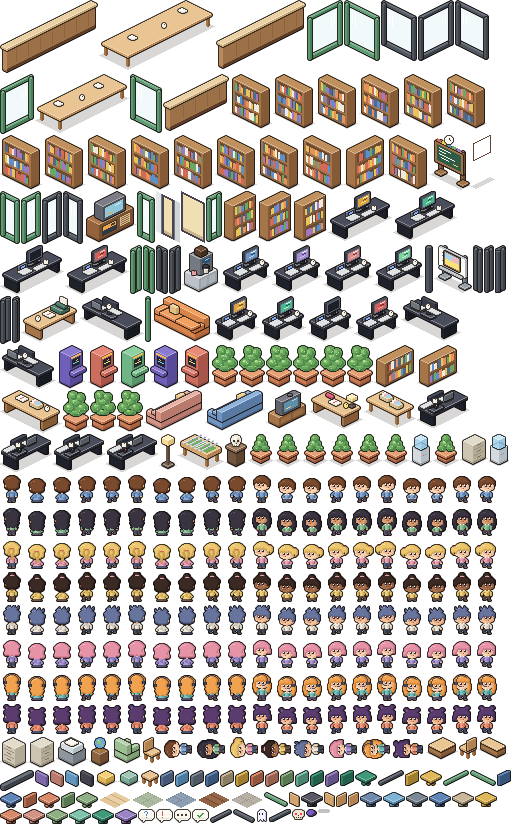
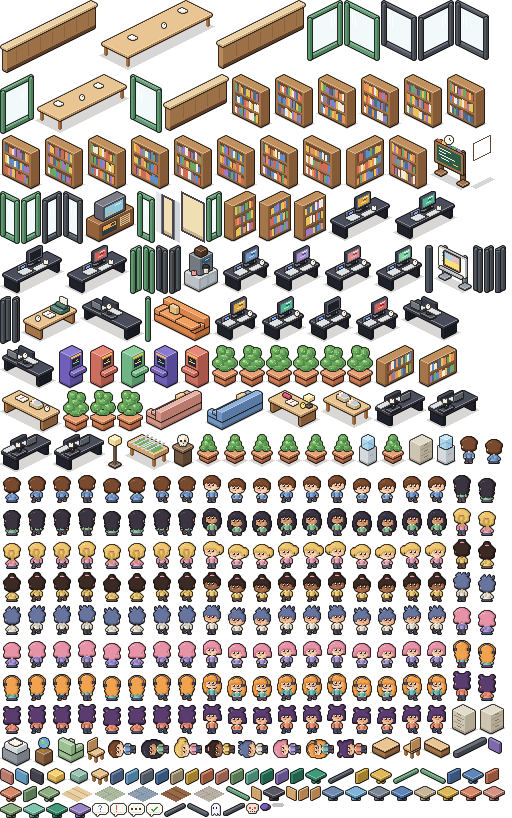
Junta a Claude FM com Filmes e vira o canto das estantes em leitura e escrita
O console da Claude FM passa a ser a TV de Filmes; o canto antigo ganha a
escrivaninha de Escrita ao lado do sofá e da poltrona de leitura.

diff --git a/scripts/pixel-art/scene_casa2.py b/scripts/pixel-art/scene_casa2.py
@@ -39,26 +39,25 @@ SEAT_ORDER = [0, 1, 2, 3]
 VOCE_DESK = (70, 266, 36)
 # footprints of the clickable furniture (export_app.py tags the items with these)
 SKULL = (146, 20, 154, 28)
-# Claude FM: the old living room in the media room's corner: the console on the half wall, the pink
-# sofa facing it, the green armchair, the low table and the cream rug
-RADIO = (228, 12, 240, 46)
+# Claude FM: the console is the Filmes TV, on the west wall in front of the sofa
+RADIO = (228, 116, 240, 150)
+# the reading and writing corner by the shelves: the pink sofa, the green armchair, the low table, the writing desk
 READ_SOFA = (290, 10, 304, 50)
 # the 'Rotinas de agentes' board hangs on the west wall of Luna's table room (plane x=0): y0, y1, z0, z1, clear of the window
 TOTEM_WALL = (168, 184, 26, 42)
 TOTEM = (0, 168, 2, 184)
 # the window on the west wall by the user's corner: y0, y1, z0, z1 (the glass is drawn by the app: morning, day, evening, night)
 WINDOW = (192, 262, 20, 50)
-# the writing desk: in front of the last bookshelf, its west edge on the shelf's
-WRITING = (344, 24, 360, 60)
-FILMS_TV = (228, 120, 238, 146)
+# the writing desk: against the west wall of the reading corner
+WRITING = (230, 14, 246, 50)
 ARCADES = [(228, 216, 238, 228), (228, 232, 238, 244), (228, 248, 238, 260)]
 SHELVES = [(x, 0, x + 28, 8) for x in range(232, 380, 30)]
 # where idle agents of the Casa sit or play: x, y (art units), the point they look at, kind
 HANG = [
-    (297, 20, (234, 29), 'sit'), (297, 40, (234, 29), 'sit'),      # reading sofa, facing the Claude FM
-    (299, 124, (233, 133), 'sit'), (299, 144, (233, 133), 'sit'),  # Filmes sofa, facing the TV
+    (297, 20, (278, 29), 'sit'), (297, 40, (278, 29), 'sit'),      # reading sofa, facing the low table
+    (299, 124, (234, 133), 'sit'), (299, 144, (234, 133), 'sit'),  # Filmes sofa, facing the TV
     (246, 222, (233, 222), 'play'), (246, 238, (233, 238), 'play'), (246, 254, (233, 254), 'play'),  # arcades
-    (258, 238, (233, 238), 'stand'), (240, 62, (234, 29), 'stand'),
+    (258, 238, (233, 238), 'stand'), (240, 62, (278, 29), 'stand'),
     (26, 150, (9, 149), 'stand'),                                  # coffee corner of the office
 ]
 # names shown when the pointer is over a part of the floor (tiles: x0, y0, x1, y1)
@@ -67,8 +66,7 @@ ZONES = [
     ('Sua mesa', (0, 13, 10, 18)),
     ('Escritório', (0, 0, 10, 18)),
     ('Entrada', (10, 0, 14, 18)),
-    ('Livros', (14, 0, 21, 5)),
-    ('Escrita', (21, 0, 24, 5)),
+    ('Leitura e escrita', (14, 0, 24, 5)),
     ('Filmes', (14, 5, 24, 12)),
     ('Jogos', (14, 12, 24, 18)),
 ]
@@ -114,7 +112,7 @@ def shell(L):
     F.frame_x(L, 0, 88, 98, 30, 42, art=('9cc4dc', 'f6e27a', '8cc477'))
     F.frame_x(L, 0, 112, 132, 22, 44, art=('f2c58a', 'fbf3e0', 'e86a5a'), fr='5f7fb4')
     F.rug(L, *DESK_RUG, H('9fb7d6'), H('809cc2'), H('e4eaf6'))
-    F.rug(L, 244, 10, 328, 72, H('e7c39a'), H('cf9f72'), H('fbe9c8'))
+    F.rug(L, 228, 10, 328, 72, H('e7c39a'), H('cf9f72'), H('fbe9c8'))
     F.rug(L, 230, 100, 330, 168, H('a9b8d8'), H('8698c0'), H('e4eaf6'))
     F.rug(L, 230, 210, 300, 280, H('f2d6a0'), H('dcb880'), H('fbf3e0'))
 
@@ -187,20 +185,18 @@ def media(sc, people=True):
     L, add = sc.L, sc.add
     for fp in SHELVES:
         add(fp, lambda x=fp[0]: F.bookshelf(L, x, 0, 28), True)
-    # Claude FM corner, as the old living room: console, low table, green armchair, pink sofa, lamp
-    add(RADIO, lambda: G.radio_tv(L, *RADIO[:2]), True)
-    add((258, 22, 270, 36), lambda: G.low_table(L, 258, 22, 12, 14), True)
-    add((258, 44, 270, 56), lambda: G.armchair(L, 258, 44, '-y', T('b9d3b0', '9cbf93', '7fa277')), True)
+    # Leitura e escrita: low table, green armchair, pink sofa, lamp and the writing desk
+    add((272, 22, 284, 36), lambda: G.low_table(L, 272, 22, 12, 14), True)
+    add((272, 44, 284, 56), lambda: G.armchair(L, 272, 44, '-y', T('b9d3b0', '9cbf93', '7fa277')), True)
     add(READ_SOFA, lambda: F.sofa_mx(L, *READ_SOFA[:2], T('e7b3a6', 'd39486', 'b87a6d'), 40), True)
     add((316, 14, 322, 20), lambda: F.lamp(L, 316, 14), True)
-    # Escrita: in front of the last bookshelf
     wx, wy = WRITING[:2]
     add(WRITING, lambda: (F.desk(L, wx, wy, 16, 36), G.typewriter(L, wx + 3, wy + 4, 12),
                           G.notebook(L, wx + 4, wy + 16, 12), F.mug(L, wx + 6, wy + 28, 12)), True)
     add((wx + 20, wy + 8, wx + 28, wy + 16), lambda: F.wood_chair(L, wx + 20, wy + 8, '-x'))
     add((wx + 22, wy + 32, wx + 28, wy + 38), lambda: F.lamp(L, wx + 22, wy + 32), True)
-    # Filmes: TV on the west wall, low table, sofa facing the TV, one rug
-    add(FILMS_TV, lambda: F.tv(L, *FILMS_TV[:2]), True)
+    # Filmes: the Claude FM console on the west wall, low table, sofa facing it, one rug
+    add(RADIO, lambda: G.radio_tv(L, *RADIO[:2]), True)
     add((258, 126, 270, 140), lambda: G.low_table(L, 258, 126, 12, 14), True)
     add((292, 114, 306, 154), lambda: F.sofa_mx(L, 292, 114, T('8fb3dc', '6f95c2', '587aa4'), 40), True)
     add((316, 104, 326, 114), lambda: F.plant(L, 316, 104, big=False, seed=7), True)
@@ -236,7 +232,7 @@ def build():
     for a_, b_, _act, n in BOARDS:
         sc.label(n, (a_ + b_) / 2, 0, WALL_H + 2, dy=-6)
     sc.label('Caveira', 150, 24, 36)
-    sc.label('Claude FM', 234, 29, 34)
+    sc.label('Claude FM', 234, 133, 34)
     sc.label('Escritório', 124, 40)
     sc.label('Mesa da Luna', 124, 130)
     mx, my = L.P(68, 270, 34)
@@ -244,7 +240,7 @@ def build():
     vx, vy = L.P(98, 262, 0)
     sc.labels.append(('Você', vx + 22, int(vy) - 6))
     sc.label('Livros', 306, 0, WALL_H + 2, dy=-6)
-    sc.label('Escrita', 366, 60)
+    sc.label('Escrita', 238, 58)
     sc.label('Filmes', 278, 174)
     sc.label('Jogos', 270, 284)
     sc.label('Sala de mídias', 262, 96)

diff --git a/scripts/pixel-art/export_app.py b/scripts/pixel-art/export_app.py
@@ -422,7 +422,7 @@ def casa(L, place, items, seat):
     C.media(sc, people=False)
     static = items('casa', sc.take())
     # what a click on a piece of furniture does
-    acts = {C.SKULL: 'skull', C.RADIO: 'radio', C.TOTEM: 'totem', C.WRITING: 'writing', C.FILMS_TV: 'films',
+    acts = {C.SKULL: 'skull', C.RADIO: 'radio', C.TOTEM: 'totem', C.WRITING: 'writing',
             (292, 114, 306, 154): 'films', (x, y, x + w, y + 14): 'computer'}
     acts.update({fp: 'games' for fp in C.ARCADES})
     acts.update({fp: 'books' for fp in C.SHELVES})
@@ -442,7 +442,7 @@ def casa(L, place, items, seat):
     tags.update({
         'Claude FM': [C.RADIO[0] + 6, C.RADIO[1] + 17, 34], 'Caveira': [150, 24, 34], 'Rotinas de agentes': [2, 176, 46],
         'Novo agente': [70, 270, 40], 'Livros': [306, 4, 44], 'Escrita': [(C.WRITING[0] + C.WRITING[2]) / 2, C.WRITING[1] + 18, 30],
-        'Filmes': [233, 133, 34], 'Jogos': [233, 238, 38], 'Gastos': [218, 0, 54], 'Alarme': [168, 0, 54],
+        'Filmes': [299, 134, 34], 'Jogos': [233, 238, 38], 'Gastos': [218, 0, 54], 'Alarme': [168, 0, 54],
     })
     # Luna's chair first, then the residents' in the order the approved art fills them
     seats = [seat(f'casa/table{i}', *C.TABLE_SEATS[i], col=F.CHAIRS[C.TABLE_LOOK[i][0]]) for i in C.SEAT_ORDER]
